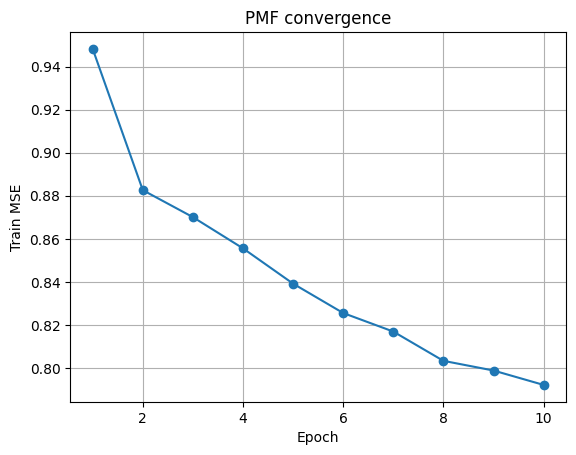
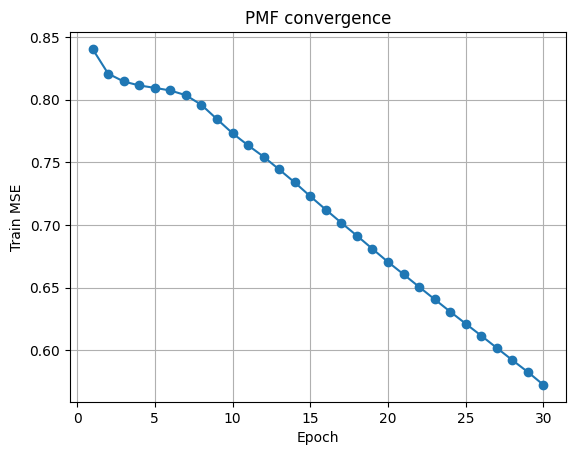
svd and pmf results improved

diff --git a/models/svd_model.py b/models/svd_model.py
@@ -18,6 +18,7 @@ def train_svd(
 
     Steps:
     - Build normalized user-item matrix from train ratings
+    - Estimate item bias from train ratings
     - Apply truncated SVD (k latent factors)
     - Reconstruct full predicted rating matrix
     - Compute RMSE on test set
@@ -31,39 +32,55 @@ def train_svd(
         random_state=42,
     )
 
-    # Keep track of the mapping between user_id/movie_id and matrix indices
+    # Keep track of mapping between user_id/movie_id and matrix indices
     user_ids = norm_matrix.index.values
     movie_ids = norm_matrix.columns.values
 
-    # Fill NaNs with 0 for SVD (since we mean-centered, 0 ≈ user mean)
-    R = norm_matrix.fillna(0).values
+    # Step 2: estimate item bias from train data after user-mean centering
+    train_with_user_mean = train_df.copy()
+    train_with_user_mean["user_mean"] = train_with_user_mean["user_id"].map(user_means)
+    train_with_user_mean["residual"] = (
+        train_with_user_mean["rating"] - train_with_user_mean["user_mean"]
+    )
 
-    # Step 2: truncated SVD
-    # R ≈ U * S * Vt, with rank k
+    item_bias = train_with_user_mean.groupby("movie_id")["residual"].mean()
+
+    # Align item bias to matrix column order, fill unseen bias with 0
+    item_bias_array = (
+        pd.Series(movie_ids, index=movie_ids)
+        .map(item_bias)
+        .fillna(0)
+        .values.reshape(1, -1)
+    )
+
+    # Step 3: subtract item bias from normalized matrix
+    norm_matrix_adjusted = norm_matrix.subtract(item_bias_array.flatten(), axis=1)
+
+    # Fill NaNs with 0 for SVD
+    R = norm_matrix_adjusted.fillna(0).values
+
+    # Step 4: truncated SVD
     U, sigma, Vt = svds(R, k=k)
     sigma = np.diag(sigma)
 
-    # Step 3: reconstruct normalized ratings
-    R_hat_norm = np.dot(np.dot(U, sigma), Vt)
+    # Step 5: reconstruct adjusted normalized ratings
+    R_hat_adjusted = np.dot(np.dot(U, sigma), Vt)
 
-    # Step 4: add user means back to get predictions on original rating scale
-    # user_means is a Series indexed by user_id, need to align with matrix row order
+    # Step 6: add user means and item bias back
     user_mean_array = user_means.loc[user_ids].values.reshape(-1, 1)
-    R_hat = R_hat_norm + user_mean_array
+    R_hat = R_hat_adjusted + user_mean_array + item_bias_array
 
-    # Convert back to DataFrame with user_id/movie_id labels
+    # Convert back to DataFrame
     R_hat_df = pd.DataFrame(R_hat, index=user_ids, columns=movie_ids)
 
-    # Step 5: compute RMSE on test set
+    # Step 7: compute RMSE on test set
     rmse = compute_rmse_on_test(test_df, R_hat_df)
 
-    # Step 6: save predictions and metrics
+    # Step 8: save predictions and metrics
     os.makedirs(reports_dir, exist_ok=True)
 
-    # Save full predicted rating matrix
     np.save(os.path.join(reports_dir, "svd_predictions.npy"), R_hat)
 
-    # Update model_metrics.json
     metrics_path = os.path.join(reports_dir, "model_metrics.json")
     metrics = {}
     if os.path.exists(metrics_path):
@@ -88,16 +105,20 @@ def compute_rmse_on_test(test_df: pd.DataFrame, pred_matrix: pd.DataFrame) -> fl
     test_df: columns user_id, movie_id, rating
     pred_matrix: rows user_id, columns movie_id, values predicted rating
     """
-    # Filter to only user/movie pairs present in the prediction matrix
-    mask = test_df["user_id"].isin(pred_matrix.index) & test_df["movie_id"].isin(pred_matrix.columns)
+    mask = test_df["user_id"].isin(pred_matrix.index) & test_df["movie_id"].isin(
+        pred_matrix.columns
+    )
     test_filtered = test_df[mask].copy()
 
-    # Get predictions for each (user, movie) in test_filtered
     preds = []
     for row in test_filtered.itertuples(index=False):
         u = row.user_id
         m = row.movie_id
-        preds.append(pred_matrix.at[u, m])
+        pred = pred_matrix.at[u, m]
+
+        # Clip predictions to valid MovieLens range
+        pred = np.clip(pred, 1.0, 5.0)
+        preds.append(pred)
 
     preds = np.array(preds)
     actuals = test_filtered["rating"].values

diff --git a/interpretability_local.py b/interpretability_local.py
@@ -1,0 +1,49 @@
+import pandas as pd
+
+from utils.data_loader import load_ratings, load_movies
+from models.pmf_model import train_pmf
+from utils.recommendation import generate_recommendations
+
+
+def analyze_user_local(
+    user_id: int,
+    data_dir: str = "data",
+    reports_dir: str = "reports",
+    processed_dir: str = "processed",
+):
+    ratings = load_ratings(data_dir)
+    movies = load_movies(data_dir)
+
+    # User history: top-rated movies
+    user_hist = (
+        ratings[ratings["user_id"] == user_id]
+        .merge(movies, on="movie_id")
+        .sort_values("rating", ascending=False)
+        .head(10)
+    )
+
+    print(f"\nUser {user_id} top-rated movies:")
+    print(user_hist[["movie_id", "title", "genres", "rating"]])
+
+    # Train or load PMF
+    pmf, _ = train_pmf(
+        data_dir=data_dir,
+        reports_dir=reports_dir,
+    )
+
+    pmf_recs = generate_recommendations(
+        user_id=user_id,
+        model="pmf",
+        top_n=10,
+        pmf_model=pmf,
+        reports_dir=reports_dir,
+        processed_dir=processed_dir,
+    )
+
+    print(f"\nPMF recommendations for user {user_id}:")
+    print(pmf_recs[["movie_id", "title", "genres", "predicted_rating"]])
+
+
+if __name__ == "__main__":
+    for uid in [1, 10, 50]:
+        analyze_user_local(user_id=uid)

diff --git a/interpretability_global.py b/interpretability_global.py
@@ -1,0 +1,42 @@
+import numpy as np
+import pandas as pd
+
+from utils.data_loader import load_movies
+from models.pmf_model import train_pmf
+
+
+def analyze_global_factor(
+    data_dir: str = "data",
+    reports_dir: str = "reports",
+    factor_idx: int = 0,
+    top_n: int = 10,
+):
+    # Train or load PMF
+    pmf, _ = train_pmf(
+        data_dir=data_dir,
+        reports_dir=reports_dir,
+    )
+
+    movies = load_movies(data_dir)
+
+    # V shape: (num_items, num_factors)
+    factor_values = pmf.V[:, factor_idx]
+
+    # Top items for this factor
+    top_indices = np.argsort(-factor_values)[:top_n]
+
+    # Map factor indices back to movie_ids
+    movie_ids = [pmf.index_to_item_id[i] for i in top_indices]
+
+    # Filter movies by those ids and keep same order
+    top_movies = movies[movies["movie_id"].isin(movie_ids)].copy()
+    top_movies = top_movies.set_index("movie_id").loc[movie_ids].reset_index()
+
+    print(f"\nTop {top_n} movies for latent factor {factor_idx}:")
+    print(top_movies[["movie_id", "title", "genres"]])
+
+
+if __name__ == "__main__":
+    # Example: inspect factor 0 and factor 1
+    analyze_global_factor(factor_idx=0)
+    analyze_global_factor(factor_idx=1)

diff --git a/models/pmf_model.py b/models/pmf_model.py
@@ -30,6 +30,11 @@ class PMF:
         self.U = 0.01 * self.random_state.randn(num_users, num_factors)
         self.V = 0.01 * self.random_state.randn(num_items, num_factors)
 
+        # Bias terms and global mean
+        self.user_bias = np.zeros(num_users)
+        self.item_bias = np.zeros(num_items)
+        self.global_mean = 0.0
+
         self.train_mse_history = []
 
     def fit(self, train_df: pd.DataFrame):
@@ -54,6 +59,9 @@ class PMF:
         item_idx = train_df["movie_id"].map(self.item_id_to_index).values
         ratings = train_df["rating"].values
 
+        # Global mean rating
+        self.global_mean = np.mean(ratings)
+
         n_ratings = len(ratings)
 
         for epoch in range(self.num_epochs):
@@ -65,8 +73,13 @@ class PMF:
                 i = item_idx[idx]
                 r_ui = ratings[idx]
 
-                # Prediction: U_u^T V_i
-                pred = np.dot(self.U[u], self.V[i])
+                # Prediction with biases: mu + bu + bi + U_u^T V_i
+                pred = (
+                    self.global_mean
+                    + self.user_bias[u]
+                    + self.item_bias[i]
+                    + np.dot(self.U[u], self.V[i])
+                )
 
                 # Error
                 err = r_ui - pred
@@ -74,10 +87,16 @@ class PMF:
                 # Gradients with L2 regularization
                 grad_Uu = -2 * err * self.V[i] + 2 * self.reg * self.U[u]
                 grad_Vi = -2 * err * self.U[u] + 2 * self.reg * self.V[i]
+                grad_bu = -2 * err + 2 * self.reg * self.user_bias[u]
+                grad_bi = -2 * err + 2 * self.reg * self.item_bias[i]
 
-                # Update
+                # Update latent factors
                 self.U[u] -= self.learning_rate * grad_Uu
                 self.V[i] -= self.learning_rate * grad_Vi
+
+                # Update biases
+                self.user_bias[u] -= self.learning_rate * grad_bu
+                self.item_bias[i] -= self.learning_rate * grad_bi
 
             # Compute train MSE at end of epoch
             mse = self._compute_mse(user_idx, item_idx, ratings)
@@ -85,7 +104,12 @@ class PMF:
             print(f"Epoch {epoch+1}/{self.num_epochs} - MSE: {mse:.4f}")
 
     def _compute_mse(self, user_idx, item_idx, ratings):
-        preds = np.sum(self.U[user_idx] * self.V[item_idx], axis=1)
+        preds = (
+            self.global_mean
+            + self.user_bias[user_idx]
+            + self.item_bias[item_idx]
+            + np.sum(self.U[user_idx] * self.V[item_idx], axis=1)
+        )
         mse = np.mean((ratings - preds) ** 2)
         return mse
 
@@ -100,7 +124,12 @@ class PMF:
 
         u = self.user_id_to_index[user_id]
         i = self.item_id_to_index[item_id]
-        return float(np.dot(self.U[u], self.V[i]))
+        return float(
+            self.global_mean
+            + self.user_bias[u]
+            + self.item_bias[i]
+            + np.dot(self.U[u], self.V[i])
+        )
 
 
 def train_pmf(

diff --git a/tests/test_baseline.py b/tests/test_baseline.py
@@ -1,0 +1,27 @@
+import os
+import json
+from utils.evaluation import compute_baseline_rmse
+
+
+def update_baseline_metrics(reports_dir: str = "reports", data_dir: str = "data"):
+    baseline_rmse = compute_baseline_rmse(data_dir=data_dir)
+
+    metrics_path = os.path.join(reports_dir, "model_metrics.json")
+    metrics = {}
+    if os.path.exists(metrics_path):
+        with open(metrics_path, "r") as f:
+            try:
+                metrics = json.load(f)
+            except json.JSONDecodeError:
+                metrics = {}
+
+    metrics["Baseline_RMSE"] = baseline_rmse
+
+    with open(metrics_path, "w") as f:
+        json.dump(metrics, f, indent=2)
+
+    print(f"Baseline RMSE: {baseline_rmse:.6f}")
+
+
+if __name__ == "__main__":
+    update_baseline_metrics()

diff --git a/utils/evaluation.py b/utils/evaluation.py
@@ -216,3 +216,21 @@ def plot_user_comparison(
     plt.tight_layout()
     plt.savefig(os.path.join(reports_dir, "user_comparison.png"), bbox_inches="tight")
     plt.close()
+
+
+def compute_baseline_rmse(data_dir: str = "data") -> float:
+    """
+    Compute RMSE of a simple baseline:
+    predict the global mean rating for every user-movie pair.
+    """
+    train_df, test_df = train_test_split_ratings(data_dir=data_dir)
+
+    # Global mean baseline
+    global_mean = train_df["rating"].mean()
+
+    preds = np.full_like(test_df["rating"].values, fill_value=global_mean, dtype=float)
+    actuals = test_df["rating"].values
+
+    mse = np.mean((preds - actuals) ** 2)
+    rmse = float(np.sqrt(mse))
+    return rmse

diff --git a/tests/test_pmf.py b/tests/test_pmf.py
@@ -1,5 +1,10 @@
 from models.pmf_model import train_pmf
 
 if __name__ == "__main__":
-    pmf, rmse = train_pmf(num_epochs=10)
+    pmf, rmse = train_pmf(
+        num_factors=75,
+        learning_rate=0.005,
+        reg=0.05,
+        num_epochs=30,
+    )
     print("PMF RMSE on test set:", rmse)

diff --git a/README.md b/README.md
@@ -216,3 +216,12 @@ Recommendation tables and plots update according to the selected user and curren
 ## Learning Outcome
 
 This project shows how matrix factorization methods can be applied in recommender systems, how to evaluate them with RMSE, and how to compare different models (SVD vs PMF) in both offline metrics and an interactive UI.
+
+
+
+Latent factor 0 appears to capture comedy-oriented content: the top movies on this factor are almost all comedies (e.g., Dumb & Dumber, What About Bob?).
+Latent factor 1 seems to emphasize darker, more serious content with action, horror, or drama elements (e.g., The 13th Warrior, The Haunting, Phantoms).
+
+User 1’s top ratings are dominated by dramas (One Flew Over the Cuckoo’s Nest, Awakenings, Rain Man) and animated children’s/musical films (Toy Story, Beauty and the Beast, A Bug’s Life).
+PMF recommends other high-quality dramas (Shawshank Redemption, Schindler’s List, Gone with the Wind, Inherit the Wind) and additional animated children’s films (Bambi, The Lion King).
+This shows that the latent factors learned by PMF successfully capture user 1’s taste for emotional dramas and family-oriented animated films.